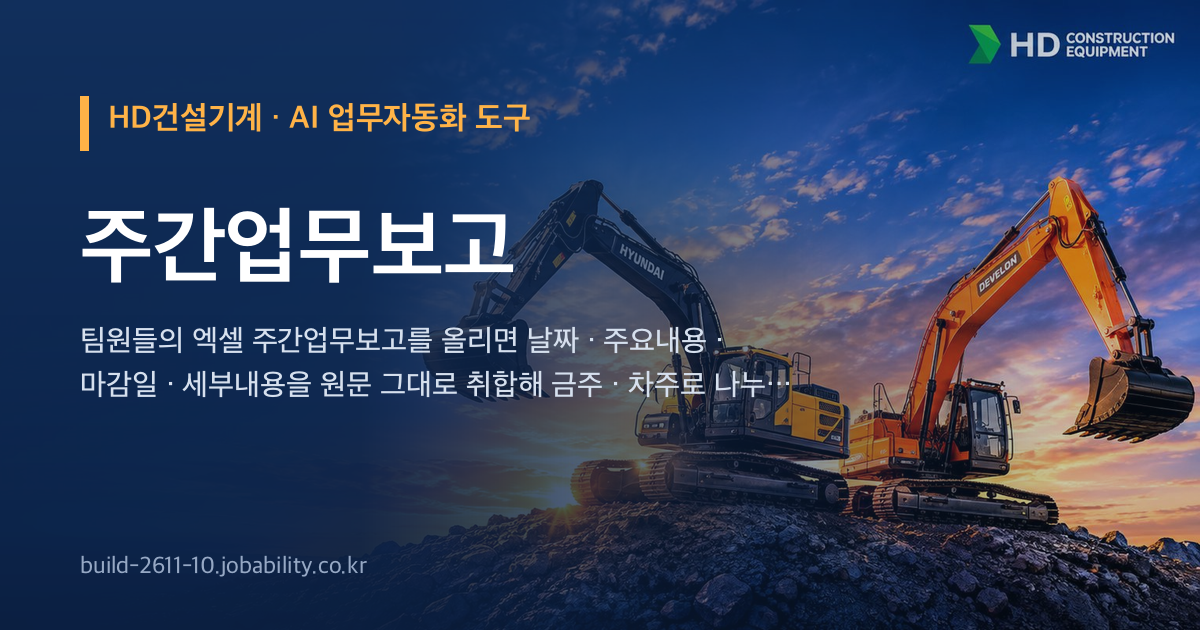
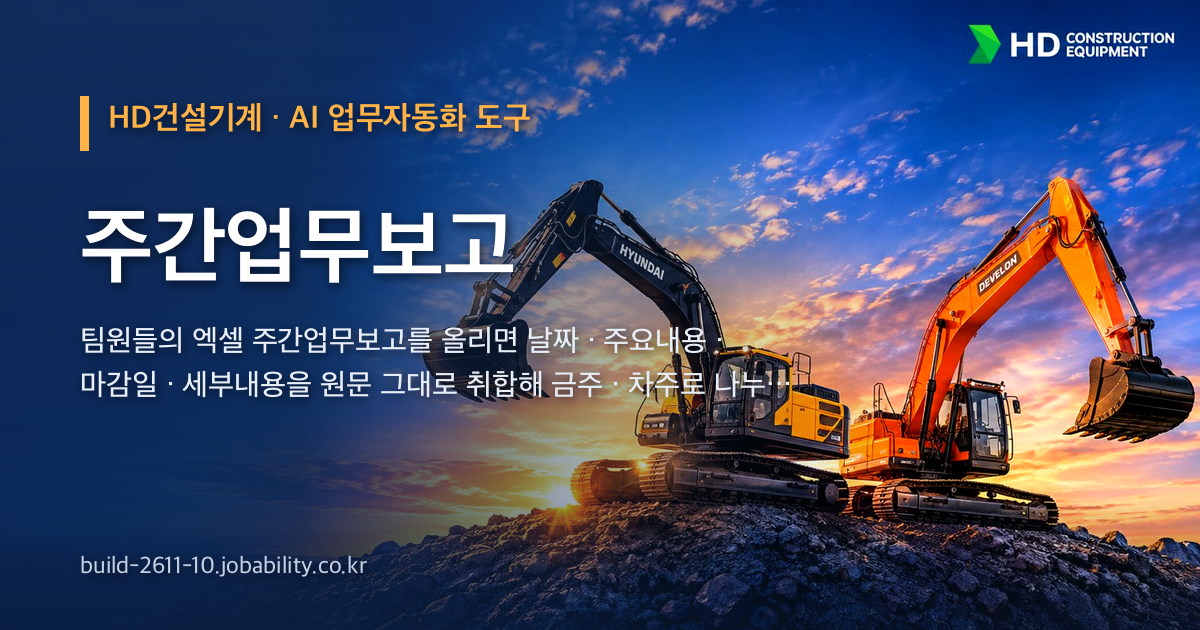
공유 그림 다시(사진 또렷하게) · 판 2026-11-13.12

diff --git a/index.html b/index.html
@@ -12,8 +12,8 @@
 <meta property="og:title" content="HD건설기계 · 주간업무보고">
 <meta property="og:description" content="팀원들의 엑셀 주간업무보고를 올리면 날짜 · 주요내용 · 마감일 · 세부내용을 원문 그대로 취합해 금주 · 차주로 나누고, 진행 · 완료 · 지연과 의사결정 필요 항목을 대시보드로 보여 주는 심플한 업무 현황 도구입니다. 메뉴는 네 개이고 자료는 브라우저에만 저장됩니다.">
 <meta property="og:url" content="https://build-2611-10.jobability.co.kr/">
-<meta property="og:image" content="https://build-2611-10.jobability.co.kr/og-image.png">
-<meta property="og:image:secure_url" content="https://build-2611-10.jobability.co.kr/og-image.png">
+<meta property="og:image" content="https://build-2611-10.jobability.co.kr/og-image.png?v=2">
+<meta property="og:image:secure_url" content="https://build-2611-10.jobability.co.kr/og-image.png?v=2">
 <meta property="og:image:type" content="image/png">
 <meta property="og:image:width" content="1200">
 <meta property="og:image:height" content="630">
@@ -22,16 +22,16 @@
 <meta name="twitter:card" content="summary_large_image">
 <meta name="twitter:title" content="HD건설기계 · 주간업무보고">
 <meta name="twitter:description" content="팀원들의 엑셀 주간업무보고를 올리면 날짜 · 주요내용 · 마감일 · 세부내용을 원문 그대로 취합해 금주 · 차주로 나누고, 진행 · 완료 · 지연과 의사결정 필요 항목을 대시보드로 보여 주는 심플한 업무 현황 도구입니다. 메뉴는 네 개이고 자료는 브라우저에만 저장됩니다.">
-<meta name="twitter:image" content="https://build-2611-10.jobability.co.kr/og-image.png">
+<meta name="twitter:image" content="https://build-2611-10.jobability.co.kr/og-image.png?v=2">
 <!-- /seo-kit -->
 <meta name="description" content="팀원들의 엑셀 주간업무보고를 올리면 날짜 · 주요내용 · 마감일 · 세부내용을 원문 그대로 취합해 금주 · 차주로 나누고, 진행 · 완료 · 지연과 의사결정 필요 항목을 대시보드로 보여 주는 심플한 업무 현황 도구입니다. 메뉴는 네 개이고 자료는 브라우저에만 저장됩니다.">
 <link rel="icon" href="favicon.svg" type="image/svg+xml">
 <link rel="stylesheet" href="css/weekly.css?v=2.0b">
 <!-- auth-kit: 로그인 전에는 도구 화면을 감춘다(js/auth.js 가 판정 뒤 푼다) -->
 <script>document.documentElement.classList.add('auth-lock')</script>
-<link rel="stylesheet" href="css/auth.css?v=2026-11-13.11">
-<link rel="stylesheet" href="css/board.css?v=2026-11-13.11">
-<link rel="stylesheet" href="css/kit-build.css?v=2026-11-13.11">
+<link rel="stylesheet" href="css/auth.css?v=2026-11-13.12">
+<link rel="stylesheet" href="css/board.css?v=2026-11-13.12">
+<link rel="stylesheet" href="css/kit-build.css?v=2026-11-13.12">
 <!-- /auth-kit -->
 </head>
 <body>
@@ -61,11 +61,11 @@
 <script src="js/weekly.js?v=2.0b"></script>
 <script src="js/app.js?v=2.0b"></script>
 <!-- auth-kit: 로그인 · 사용 신청 · 승인 · 게시판(키트 정본 data10-00/kit/auth, 적용 build-2611-00/tools/kit) -->
-<script src="vendor/supabase.js?v=2026-11-13.11"></script>
-<script src="js/auth-config.js?v=2026-11-13.11"></script>
-<script src="js/kit-build.js?v=2026-11-13.11"></script>
-<script src="js/board.js?v=2026-11-13.11"></script>
-<script src="js/auth.js?v=2026-11-13.11"></script>
+<script src="vendor/supabase.js?v=2026-11-13.12"></script>
+<script src="js/auth-config.js?v=2026-11-13.12"></script>
+<script src="js/kit-build.js?v=2026-11-13.12"></script>
+<script src="js/board.js?v=2026-11-13.12"></script>
+<script src="js/auth.js?v=2026-11-13.12"></script>
 <!-- /auth-kit -->
 </body>
 </html>

diff --git a/guide.html b/guide.html
@@ -12,8 +12,8 @@
 <meta property="og:title" content="사용법 — 주간업무보고">
 <meta property="og:description" content="팀원들의 엑셀 주간업무보고를 올리면 날짜 · 주요내용 · 마감일 · 세부내용을 원문 그대로 취합해 금주 · 차주로 나누고, 진행 · 완료 · 지연과 의사결정 필요 항목을 대시보드로 보여 주는 심플한 업무 현황 도구입니다. 메뉴는 네 개이고 자료는 브라우저에만 저장됩니다.">
 <meta property="og:url" content="https://build-2611-10.jobability.co.kr/guide.html">
-<meta property="og:image" content="https://build-2611-10.jobability.co.kr/og-image.png">
-<meta property="og:image:secure_url" content="https://build-2611-10.jobability.co.kr/og-image.png">
+<meta property="og:image" content="https://build-2611-10.jobability.co.kr/og-image.png?v=2">
+<meta property="og:image:secure_url" content="https://build-2611-10.jobability.co.kr/og-image.png?v=2">
 <meta property="og:image:type" content="image/png">
 <meta property="og:image:width" content="1200">
 <meta property="og:image:height" content="630">
@@ -22,7 +22,7 @@
 <meta name="twitter:card" content="summary_large_image">
 <meta name="twitter:title" content="사용법 — 주간업무보고">
 <meta name="twitter:description" content="팀원들의 엑셀 주간업무보고를 올리면 날짜 · 주요내용 · 마감일 · 세부내용을 원문 그대로 취합해 금주 · 차주로 나누고, 진행 · 완료 · 지연과 의사결정 필요 항목을 대시보드로 보여 주는 심플한 업무 현황 도구입니다. 메뉴는 네 개이고 자료는 브라우저에만 저장됩니다.">
-<meta name="twitter:image" content="https://build-2611-10.jobability.co.kr/og-image.png">
+<meta name="twitter:image" content="https://build-2611-10.jobability.co.kr/og-image.png?v=2">
 <!-- /seo-kit -->
 <link rel="icon" href="favicon.svg" type="image/svg+xml">
 <link rel="stylesheet" href="css/style.css?v=2.0b">

diff --git a/plan.html b/plan.html
@@ -12,8 +12,8 @@
 <meta property="og:title" content="기획서 — 주간업무보고">
 <meta property="og:description" content="팀원들의 엑셀 주간업무보고를 올리면 날짜 · 주요내용 · 마감일 · 세부내용을 원문 그대로 취합해 금주 · 차주로 나누고, 진행 · 완료 · 지연과 의사결정 필요 항목을 대시보드로 보여 주는 심플한 업무 현황 도구입니다. 메뉴는 네 개이고 자료는 브라우저에만 저장됩니다.">
 <meta property="og:url" content="https://build-2611-10.jobability.co.kr/plan.html">
-<meta property="og:image" content="https://build-2611-10.jobability.co.kr/og-image.png">
-<meta property="og:image:secure_url" content="https://build-2611-10.jobability.co.kr/og-image.png">
+<meta property="og:image" content="https://build-2611-10.jobability.co.kr/og-image.png?v=2">
+<meta property="og:image:secure_url" content="https://build-2611-10.jobability.co.kr/og-image.png?v=2">
 <meta property="og:image:type" content="image/png">
 <meta property="og:image:width" content="1200">
 <meta property="og:image:height" content="630">
@@ -22,7 +22,7 @@
 <meta name="twitter:card" content="summary_large_image">
 <meta name="twitter:title" content="기획서 — 주간업무보고">
 <meta name="twitter:description" content="팀원들의 엑셀 주간업무보고를 올리면 날짜 · 주요내용 · 마감일 · 세부내용을 원문 그대로 취합해 금주 · 차주로 나누고, 진행 · 완료 · 지연과 의사결정 필요 항목을 대시보드로 보여 주는 심플한 업무 현황 도구입니다. 메뉴는 네 개이고 자료는 브라우저에만 저장됩니다.">
-<meta name="twitter:image" content="https://build-2611-10.jobability.co.kr/og-image.png">
+<meta name="twitter:image" content="https://build-2611-10.jobability.co.kr/og-image.png?v=2">
 <!-- /seo-kit -->
 <link rel="icon" href="favicon.svg" type="image/svg+xml">
 <link rel="stylesheet" href="css/style.css">

diff --git a/report.html b/report.html
@@ -12,8 +12,8 @@
 <meta property="og:title" content="평가보고서 — 주간업무보고">
 <meta property="og:description" content="주간업무보고 점검 · 평가보고서(2026-11-13) — 사이트 점검, 기능과 시험, 인계 준비, 판 이력, 한계.">
 <meta property="og:url" content="https://build-2611-10.jobability.co.kr/report.html">
-<meta property="og:image" content="https://build-2611-10.jobability.co.kr/og-image.png">
-<meta property="og:image:secure_url" content="https://build-2611-10.jobability.co.kr/og-image.png">
+<meta property="og:image" content="https://build-2611-10.jobability.co.kr/og-image.png?v=2">
+<meta property="og:image:secure_url" content="https://build-2611-10.jobability.co.kr/og-image.png?v=2">
 <meta property="og:image:type" content="image/png">
 <meta property="og:image:width" content="1200">
 <meta property="og:image:height" content="630">
@@ -22,7 +22,7 @@
 <meta name="twitter:card" content="summary_large_image">
 <meta name="twitter:title" content="평가보고서 — 주간업무보고">
 <meta name="twitter:description" content="주간업무보고 점검 · 평가보고서(2026-11-13) — 사이트 점검, 기능과 시험, 인계 준비, 판 이력, 한계.">
-<meta name="twitter:image" content="https://build-2611-10.jobability.co.kr/og-image.png">
+<meta name="twitter:image" content="https://build-2611-10.jobability.co.kr/og-image.png?v=2">
 <!-- /seo-kit -->
 <meta name="description" content="주간업무보고 점검 · 평가보고서(2026-11-13) — 사이트 점검, 기능과 시험, 인계 준비, 판 이력, 한계.">
 <link rel="icon" href="favicon.svg" type="image/svg+xml">
